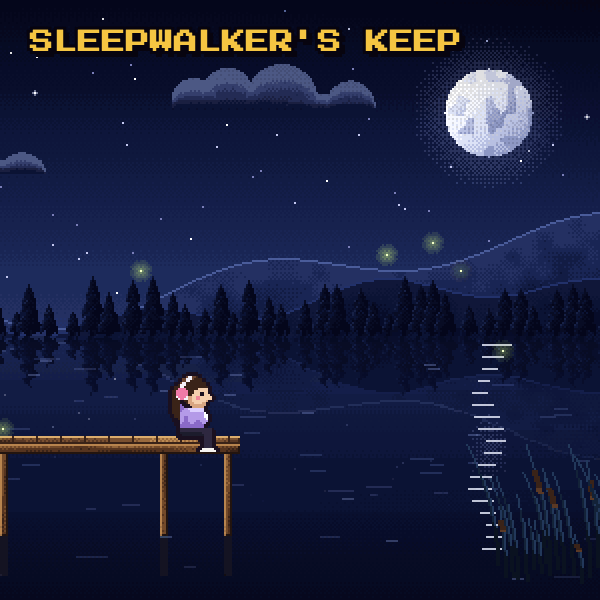
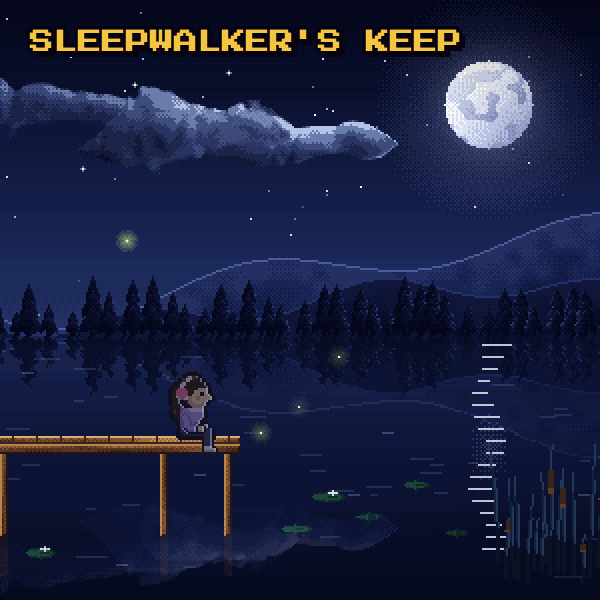
Rebuild the README's recordings with each world's best moment on cue
Every loop now stages what makes its world special, so that a six second clip
shows the things you'd otherwise wait minutes for: the dragon crossing the moon,
the whale breaching, the marshmallow going up. They also show the new clouds.

The rebuild script's encoders now run in parallel, and it waits for them by
process id, since a bare wait also waits for its own web server, forever.

diff --git a/README.md b/README.md
@@ -1,4 +1,4 @@
-<a href="https://lofi-studio-one.vercel.app"><picture><source media="(prefers-reduced-motion: reduce)" srcset="docs/readme/hero-still.webp"><img src="docs/readme/hero.webp" width="100%" alt="Lofi Studio's title screen: the pixel logo over a castle at night, where a wanderer walks the wall past flickering torches. Then eight animated worlds pass by. Click to play."></picture></a>
+<a href="https://lofi-studio-one.vercel.app"><picture><source media="(prefers-reduced-motion: reduce)" srcset="docs/readme/hero-still.webp"><img src="docs/readme/hero.webp" width="100%" alt="Lofi Studio's title screen: the pixel logo over a castle at night, where a wanderer walks the wall past flickering torches as a dragon crosses the moon. Then eight animated worlds pass by, from a burning marshmallow at a campfire to a whale breaching at sunset. Click to play."></picture></a>
 
 <h3 align="center">Pick a vibe and a tiny band starts playing.</h3>
 
@@ -16,20 +16,20 @@ Stay a while and the place keeps going. Walk the beach and the pier falls behind
 
 <table>
 <tr>
-<td width="50%" valign="top"><a href="https://lofi-studio-one.vercel.app"><picture><source media="(prefers-reduced-motion: reduce)" srcset="docs/readme/world-castle-still.webp"><img src="docs/readme/world-castle.webp" width="100%" alt="A wanderer walks a castle wall at night under a full moon, past flickering torches."></picture></a><br><b>Late Night Study</b><br>Boom bap on a Rhodes while a wanderer walks the castle wall.</td>
-<td width="50%" valign="top"><a href="https://lofi-studio-one.vercel.app"><picture><source media="(prefers-reduced-motion: reduce)" srcset="docs/readme/world-office-still.webp"><img src="docs/readme/world-office.webp" width="100%" alt="Someone at a desk by a window at night, rain on the glass, string lights and a bookshelf, with a monitor showing the music."></picture></a><br><b>Rainy Window</b><br>Felt piano and deep sub bass at the desk, with rain on the glass.</td>
+<td width="50%" valign="top"><a href="https://lofi-studio-one.vercel.app"><picture><source media="(prefers-reduced-motion: reduce)" srcset="docs/readme/world-castle-still.webp"><img src="docs/readme/world-castle.webp" width="100%" alt="A wanderer reads a book while walking a castle wall at night, past flickering torches, as a dragon crosses the full moon."></picture></a><br><b>Late Night Study</b><br>Boom bap on a Rhodes while a wanderer walks the castle wall.</td>
+<td width="50%" valign="top"><a href="https://lofi-studio-one.vercel.app"><picture><source media="(prefers-reduced-motion: reduce)" srcset="docs/readme/world-office-still.webp"><img src="docs/readme/world-office.webp" width="100%" alt="Someone at a desk by a window at night, petting a cat that has sat down on the keyboard. Rain on the glass, string lights, a bookshelf, and a monitor showing the music."></picture></a><br><b>Rainy Window</b><br>Felt piano and deep sub bass at the desk, with rain on the glass.</td>
 </tr>
 <tr>
-<td valign="top"><a href="https://lofi-studio-one.vercel.app"><picture><source media="(prefers-reduced-motion: reduce)" srcset="docs/readme/world-cafe-still.webp"><img src="docs/readme/world-cafe.webp" width="100%" alt="Someone in a red booth at a coffee shop, with a street outside the window and a chalkboard on the wall."></picture></a><br><b>Coffee Shop Jazz</b><br>Brushes, ride cymbal and walking bass from the good booth.</td>
-<td valign="top"><a href="https://lofi-studio-one.vercel.app"><picture><source media="(prefers-reduced-motion: reduce)" srcset="docs/readme/world-garden-still.webp"><img src="docs/readme/world-garden.webp" width="100%" alt="Someone sitting on a crate in a sunny garden, with sunflowers nodding along a fence, a shed, and birds flying in."></picture></a><br><b>Sunday Morning</b><br>Nylon guitar, claps and shaker, with birds dropping in on the fence.</td>
+<td valign="top"><a href="https://lofi-studio-one.vercel.app"><picture><source media="(prefers-reduced-motion: reduce)" srcset="docs/readme/world-cafe-still.webp"><img src="docs/readme/world-cafe.webp" width="100%" alt="Someone in a red booth at a coffee shop, taking a long sip from a mug as a yellow bus goes by outside. A cat lies on the window ledge and a barista works behind the counter."></picture></a><br><b>Coffee Shop Jazz</b><br>Brushes, ride cymbal and walking bass from the good booth.</td>
+<td valign="top"><a href="https://lofi-studio-one.vercel.app"><picture><source media="(prefers-reduced-motion: reduce)" srcset="docs/readme/world-garden-still.webp"><img src="docs/readme/world-garden.webp" width="100%" alt="Someone on a crate in a sunny garden, holding out a finger for a butterfly, with sunflowers along a fence, a shed, and a squirrel running along the top of the fence."></picture></a><br><b>Sunday Morning</b><br>Nylon guitar, claps and shaker, with birds dropping in on the fence.</td>
 </tr>
 <tr>
-<td valign="top"><a href="https://lofi-studio-one.vercel.app"><picture><source media="(prefers-reduced-motion: reduce)" srcset="docs/readme/world-forest-still.webp"><img src="docs/readme/world-forest.webp" width="100%" alt="Someone on a log by a campfire at night, beside a tent, with dark pines behind."></picture></a><br><b>Neo-Soul Groove</b><br>A Wurlitzer, a lazy snare and a buzzy synth bass around the campfire.</td>
-<td valign="top"><a href="https://lofi-studio-one.vercel.app"><picture><source media="(prefers-reduced-motion: reduce)" srcset="docs/readme/world-lake-still.webp"><img src="docs/readme/world-lake.webp" width="100%" alt="Someone at the end of a dock on a moonlit lake in the rain, with fireflies and reeds."></picture></a><br><b>Sleepy Ambient</b><br>No drums. Floaty keys and soft rain on a moonlit dock.</td>
+<td valign="top"><a href="https://lofi-studio-one.vercel.app"><picture><source media="(prefers-reduced-motion: reduce)" srcset="docs/readme/world-forest-still.webp"><img src="docs/readme/world-forest.webp" width="100%" alt="Someone on a log by a campfire at night, waving a burning marshmallow on a stick. A comet crosses the sky, a deer grazes at the edge of the clearing and an owl watches from a bough."></picture></a><br><b>Neo-Soul Groove</b><br>A Wurlitzer, a lazy snare and a buzzy synth bass around the campfire.</td>
+<td valign="top"><a href="https://lofi-studio-one.vercel.app"><picture><source media="(prefers-reduced-motion: reduce)" srcset="docs/readme/world-lake-still.webp"><img src="docs/readme/world-lake.webp" width="100%" alt="Someone fishing from the end of a dock on a moonlit lake in the rain, reeling in a small fish, with fireflies, lily pads and reeds."></picture></a><br><b>Sleepy Ambient</b><br>No drums. Floaty keys and soft rain on a moonlit dock.</td>
 </tr>
 <tr>
-<td valign="top"><a href="https://lofi-studio-one.vercel.app"><picture><source media="(prefers-reduced-motion: reduce)" srcset="docs/readme/world-park-still.webp"><img src="docs/readme/world-park.webp" width="100%" alt="Someone on a park bench on a sunny day, with blossom trees, pigeons on the path and an observatory on the hill."></picture></a><br><b>Old Tape Memories</b><br>Bossa nova on an organ, warped by old tape, from a park bench.</td>
-<td valign="top"><a href="https://lofi-studio-one.vercel.app"><picture><source media="(prefers-reduced-motion: reduce)" srcset="docs/readme/world-beach-still.webp"><img src="docs/readme/world-beach.webp" width="100%" alt="Someone walking along a beach at sunset, with gulls, a pier and waves rolling in."></picture></a><br><b>Bittersweet</b><br>A waltz in 3/4 on felt piano, walking the sand at sunset.</td>
+<td valign="top"><a href="https://lofi-studio-one.vercel.app"><picture><source media="(prefers-reduced-motion: reduce)" srcset="docs/readme/world-park-still.webp"><img src="docs/readme/world-park.webp" width="100%" alt="Someone on a park bench tossing crumbs to pigeons on a sunny day, with a kite over the far hill, blossom trees, an observatory, and a jogger and someone with a pram on the path."></picture></a><br><b>Old Tape Memories</b><br>Bossa nova on an organ, warped by old tape, from a park bench.</td>
+<td valign="top"><a href="https://lofi-studio-one.vercel.app"><picture><source media="(prefers-reduced-motion: reduce)" srcset="docs/readme/world-beach-still.webp"><img src="docs/readme/world-beach.webp" width="100%" alt="Someone walking along a beach at sunset as a whale breaches out at sea. Foam runs up the sand, a crab scuttles past, and a pier, boats and dune grass go by."></picture></a><br><b>Bittersweet</b><br>A waltz in 3/4 on felt piano, walking the sand at sunset.</td>
 </tr>
 </table>
 
@@ -79,12 +79,12 @@ Everything changes while it plays.
 
 <h2><img src="docs/readme/plate-file.png" width="100%" alt="All of it in one HTML file"></h2>
 
-Open `index.html` and it's all there: about 7,500 lines, no framework and no build step. The page loads [Tone.js](https://tonejs.github.io/) and two pixel fonts, and that's all it needs.
+Open `index.html` and it's all there: about 7,700 lines, no framework and no build step. The page loads [Tone.js](https://tonejs.github.io/) and two pixel fonts, and that's all it needs.
 
 - **The music** comes from a small step sequencer and synths built on Tone.js. Each chord progression has a style that sets its groove, drum kit, comping, bass line and choice of lead.
-- **The worlds** are painted in code with a small hi-bit toolkit: hue-shifted color ramps, ordered dithering, gusts of wind that roll through the grass, surf drawn a pixel at a time, and everything from a songbird to a breaching whale built out of simple shapes.
+- **The worlds** are painted in code with a small hi-bit toolkit: hue-shifted color ramps, ordered dithering, gusts of wind that roll through the grass, clouds that gather and dissolve, surf drawn a pixel at a time, and everything from a songbird to a breaching whale built out of simple shapes.
 
-Everything moving on this page was captured from the running app. `docs/readme/tools/make.sh` rebuilds it all.
+Everything moving on this page was captured from the running app. The rare moments, like the whale, were asked for on cue so they'd fit in a short loop. `docs/readme/tools/make.sh` rebuilds it all.
 
 <br>
 
